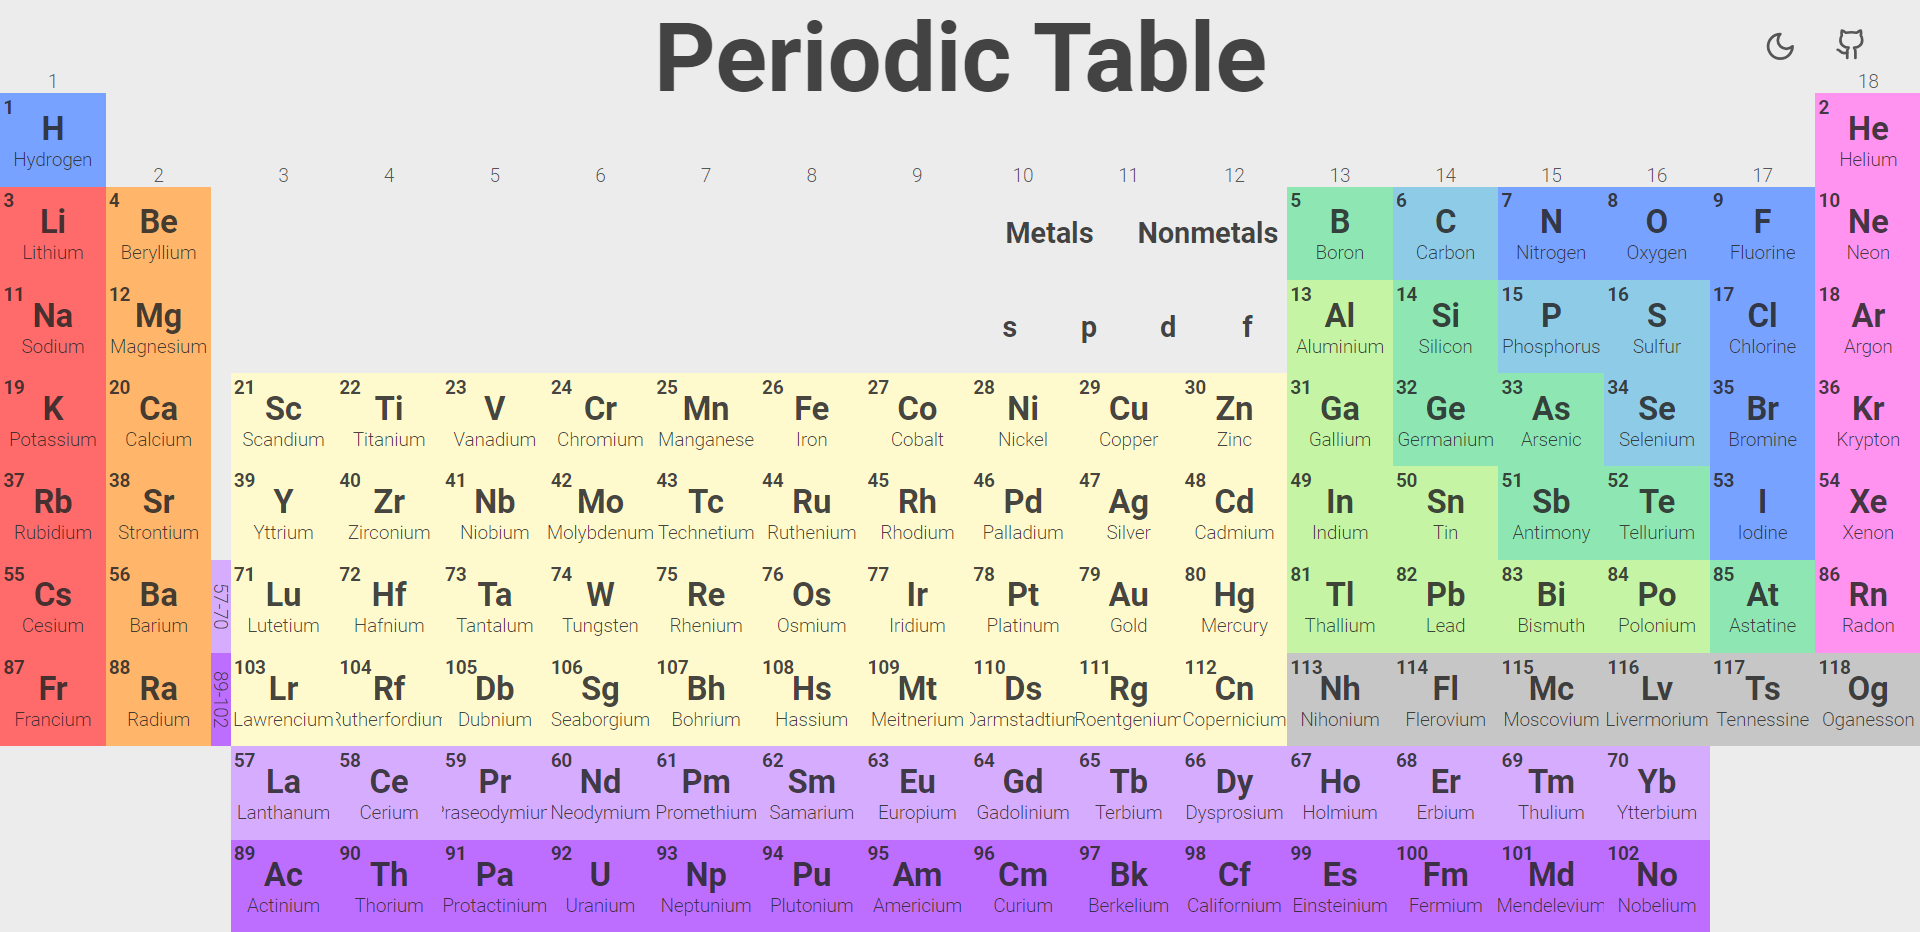
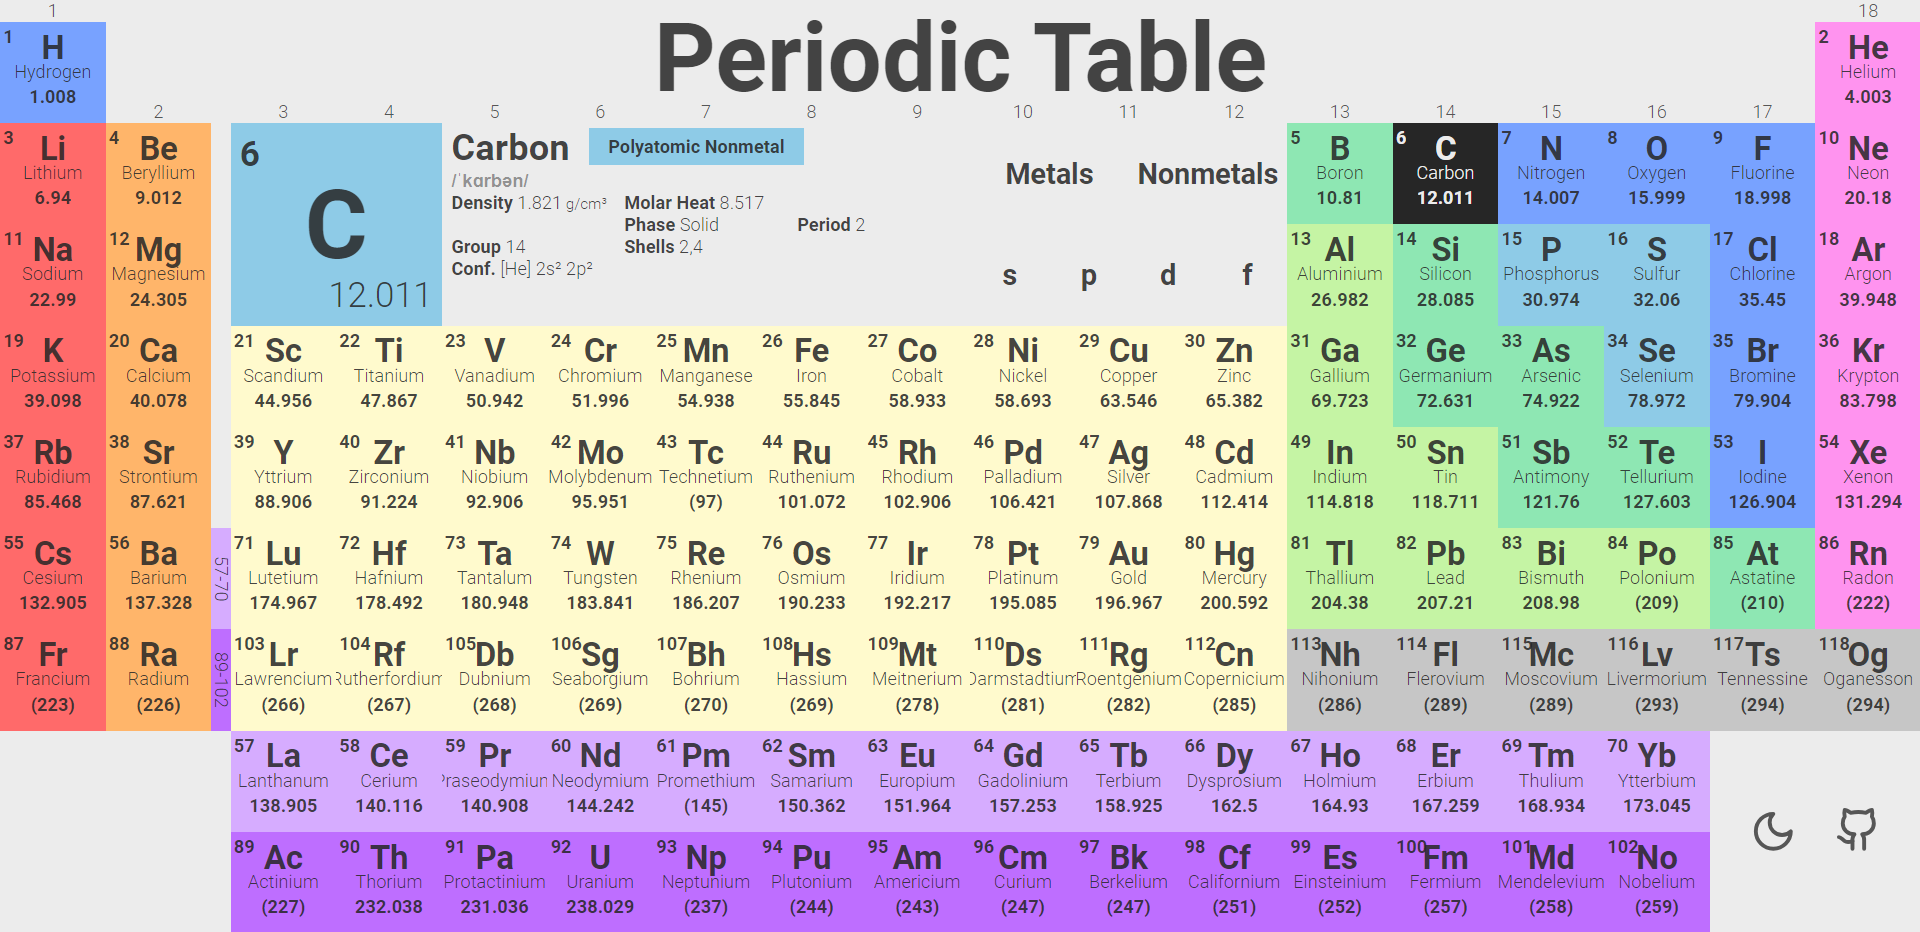
rme

Changed region(s): [[0.0, 0.0, 1.0, 0.9957], [0.5312, 0.1556, 0.5625, 0.28], [0.4062, 0.2178, 0.4375, 0.2489]]

diff --git a/README.md b/README.md
@@ -1,7 +1,11 @@
-Originally forked from https://github.com/tamalchowdhury/periodic-table. I've made some style changes I wanted. I hope you like it. I'd love to hear any suggestions or feedback you have 🤗
+# Periodic Table of Elements 🧪😎
 
-![](screenshot.png)
+- Originally forked from https://github.com/tamalchowdhury/periodic-table. 
+- The elements data is based on https://github.com/Bowserinator/Periodic-Table-JSON (licensed under https://creativecommons.org/licenses/by-sa/3.0/)
+- I've made some changes I wanted. (dark mode, style, layout, and more) I hope you like it 😊
+- I'd love to hear any suggestions or feedback you have 🤗
 
+![Screenshot](screenshot.png)
 
 
 
